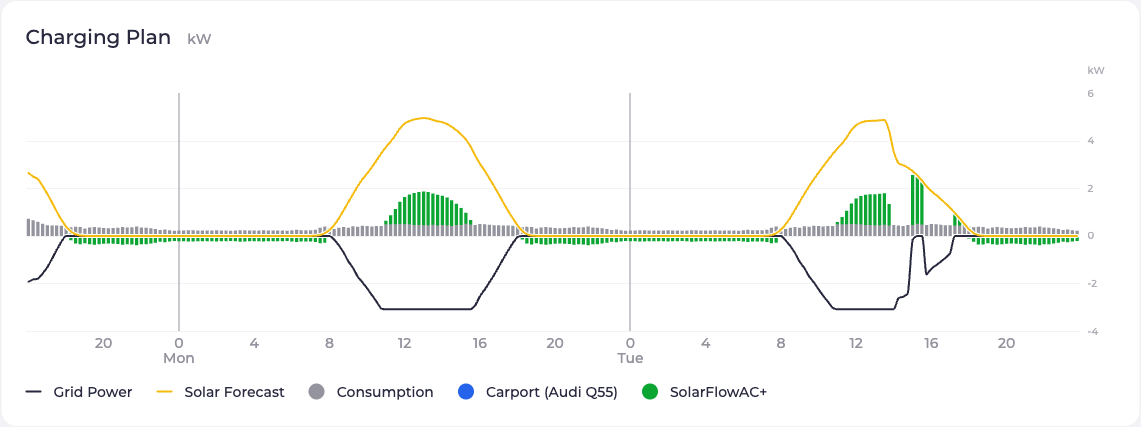
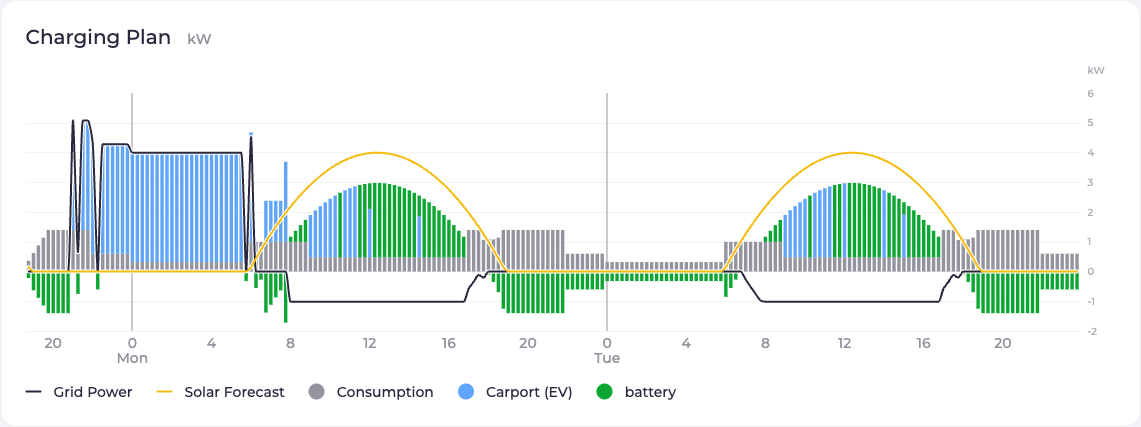
docs: take the example charts from the README household itself
A local evcc with demo devices reproduces the documented spec: 10 kWh
battery, 50 kWh EV that must reach 80 % by 08:00, 4 kWp forecast,
18 to 44 ct tariff. All three solves are Optimal, locally and on the
hosted optimizer. The EV charges on one phase: the three phase shape
with a 4.1 kW minimum never proves, see the issue on those requests.

diff --git a/README.md b/README.md
@@ -19,31 +19,31 @@ Inspired by https://github.com/Akkudoktor-EOS/EOS/pull/462
 
 ## Example
 
-A real household over two days: an 8.2 kWh home battery, a full EV in the carport, a PV forecast, a flat 32.5 ct tariff, 224 steps of 15 minutes. Grid power is the line, PV forecast and household consumption the inputs, the bars are what the optimizer schedules for each battery.
+Two days in 15 minute steps: a 10 kWh home battery at 50 %, a 50 kWh EV at 20 % that must reach 80 % by 08:00 on a 3.7 kW single phase connection, a 4 kWp PV forecast, and a dynamic tariff between 18 ct at noon and 44 ct at 19:00. Grid power is the line, PV forecast and household consumption the inputs, the bars are what the optimizer schedules for each battery.
 
 <picture>
   <source media="(prefers-color-scheme: dark)" srcset="docs/img/example-plan-dark.png">
-  <img alt="Charging plan: grid power, solar forecast, consumption and the home battery's charging schedule over two days" src="docs/img/example-plan-light.png">
+  <img alt="Charging plan: the EV charges through the night at 3.7 kW, PV surplus goes into the EV and then the home battery, the battery covers the evening peak" src="docs/img/example-plan-light.png">
 </picture>
 
-Nothing to buy: the home battery carries the house through the night and refills from the first PV surplus of the morning, because `charge_before_export` makes self-consumption the tie-breaker. It is full before noon and the rest of the day exports. The EV is at its goal and stays idle.
+The EV takes its 30 kWh in the eight cheapest hours before the deadline, from 22:00 to 06:00 at full power, and stops exactly at the goal. The morning PV surplus then goes into the EV and after noon into the home battery rather than to the grid, because `charge_before_export` makes self-consumption the tie-breaker. From there the battery covers the 44 ct evening peak and the night, and the house imports nothing until the next PV surplus arrives.
 
 <picture>
   <source media="(prefers-color-scheme: dark)" srcset="docs/img/example-soc-dark.png">
-  <img alt="SoC projections: the EV flat at 100 percent, the home battery cycling between its overnight low and its charge limit" src="docs/img/example-soc-light.png">
+  <img alt="SoC projections: the EV climbing from 20 to 80 percent overnight and to full on PV, the home battery cycling between its overnight low and full" src="docs/img/example-soc-light.png">
 </picture>
 
 ## Levelling grid peaks
 
-Cheapest is not always kindest to the grid connection. On a flat tariff nothing but the strategy decides when to charge, and `charge_before_export` takes the morning surplus as early as it can: a 3 kW burst into the battery at 08:00, then 4.5 kW of feed-in at noon.
+Cheapest is not always kindest to the grid connection. Above, the home battery fills in one block after noon and the rest of the midday surplus leaves as a 3 kW feed-in peak.
 
-`attenuate_grid_peaks` penalizes the highest grid power over the horizon, on the import and the feed-in side. The same household then spreads the refill over the whole solar window and holds the feed-in to a flat 3 kW plateau. Nothing costs more, the connection just sees a calmer profile. `attenuate_demand_peaks` and `attenuate_feedin_peaks` do the same for one side only.
+`attenuate_grid_peaks` penalizes the highest grid power over the horizon, on the import and the feed-in side. The same household then spreads the battery refill over the whole solar window and holds the feed-in to a flat 1 kW plateau. The night import stays where it is: the EV needs its eight hours at 3.7 kW either way. Nothing costs more, the connection just sees a calmer profile. `attenuate_demand_peaks` and `attenuate_feedin_peaks` do the same for one side only.
 
 The maximum is a single value out of the horizon, which leaves one gap: a load spike the schedule cannot touch, an oven, a heat pump defrost, fixes it, and the penalty then has nothing left to win below it. Charging flat out against the spike scores the same as spreading the same energy over the window, and the solver may pick either.
 
 <picture>
   <source media="(prefers-color-scheme: dark)" srcset="docs/img/example-peak-dark.png">
-  <img alt="Charging plan with attenuate_grid_peaks: the battery refill spread over the solar window and the feed-in held to a flat plateau" src="docs/img/example-peak-light.png">
+  <img alt="Charging plan with attenuate_grid_peaks: the battery refill spread over the solar window and the feed-in held to a flat 1 kW plateau" src="docs/img/example-peak-light.png">
 </picture>
 
 ## How a request is solved
